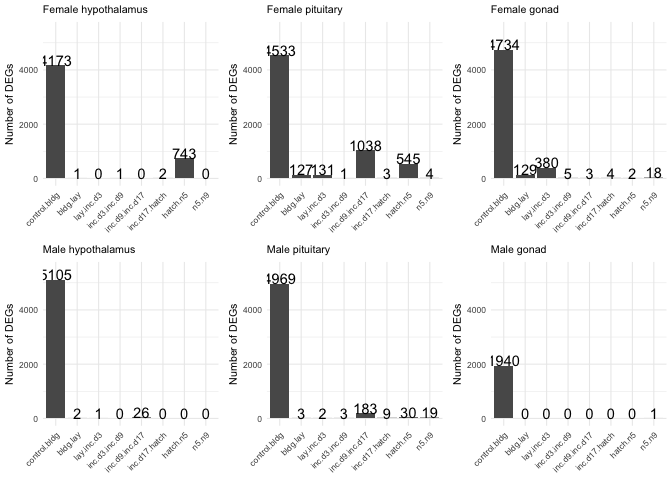
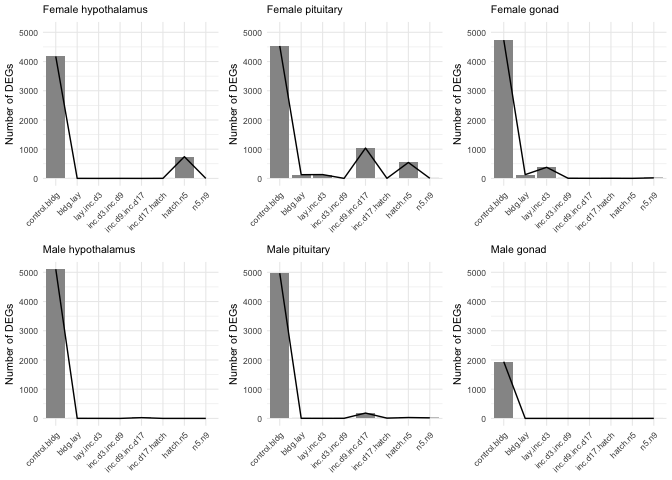
now with bars and lines, two color options

diff --git a/analysis/04_DESeq2_sexes.md b/analysis/04_DESeq2_sexes.md
@@ -2625,12 +2625,12 @@ Calculate and plot total DEGs
 Plot only a subset of DEGs that relate to hypotheses
 ----------------------------------------------------
 
-    g <- plotserialDEGs(DEGs.female_hypothalamus, "Female hypothalamus")
-    h <- plotserialDEGs(DEGs.female_pituitary, "Female pituitary")
-    i <- plotserialDEGs(DEGs.female_gonad, "Female gonad")
-    j <- plotserialDEGs(DEGs.male_hypothalamus, "Male hypothalamus")
-    k <- plotserialDEGs(DEGs.male_pituitary, "Male pituitary")
-    l <- plotserialDEGs(DEGs.male_gondad, "Male gonad")
+    g <- plotserialDEGs(DEGs.female_hypothalamus, "Female hypothalamus", "#969696")
+    h <- plotserialDEGs(DEGs.female_pituitary, "Female pituitary", "#969696")
+    i <- plotserialDEGs(DEGs.female_gonad, "Female gonad", "#969696")
+    j <- plotserialDEGs(DEGs.male_hypothalamus, "Male hypothalamus", "#969696")
+    k <- plotserialDEGs(DEGs.male_pituitary, "Male pituitary", "#969696")
+    l <- plotserialDEGs(DEGs.male_gondad, "Male gonad", "#969696")
 
     mybarplots <- plot_grid(g, h , i , j ,k , l, nrow = 2) 
     mybarplots
@@ -2638,6 +2638,25 @@ Plot only a subset of DEGs that relate to hypotheses
 ![](../figures/sexes/totalDEGbarsplots-1.png)
 
     pdf("../figures/sexes/totalDEGbarsplots-1.pdf", width = 10, height = 6)
+    plot(mybarplots)
+    dev.off()
+
+    ## quartz_off_screen 
+    ##                 2
+
+    g <- plotserialDEGs(DEGs.female_hypothalamus, "Female hypothalamus", "#00A08A")
+    h <- plotserialDEGs(DEGs.female_pituitary, "Female pituitary", "#00A08A")
+    i <- plotserialDEGs(DEGs.female_gonad, "Female gonad", "#00A08A")
+    j <- plotserialDEGs(DEGs.male_hypothalamus, "Male hypothalamus", "#F98400")
+    k <- plotserialDEGs(DEGs.male_pituitary, "Male pituitary", "#F98400")
+    l <- plotserialDEGs(DEGs.male_gondad, "Male gonad", "#F98400")
+
+    mybarplots <- plot_grid(g, h , i , j ,k , l, nrow = 2) 
+    mybarplots
+
+![](../figures/sexes/totalDEGbarsplots-2.png)
+
+    pdf("../figures/sexes/totalDEGbarsplots-2.pdf", width = 10, height = 6)
     plot(mybarplots)
     dev.off()
 
